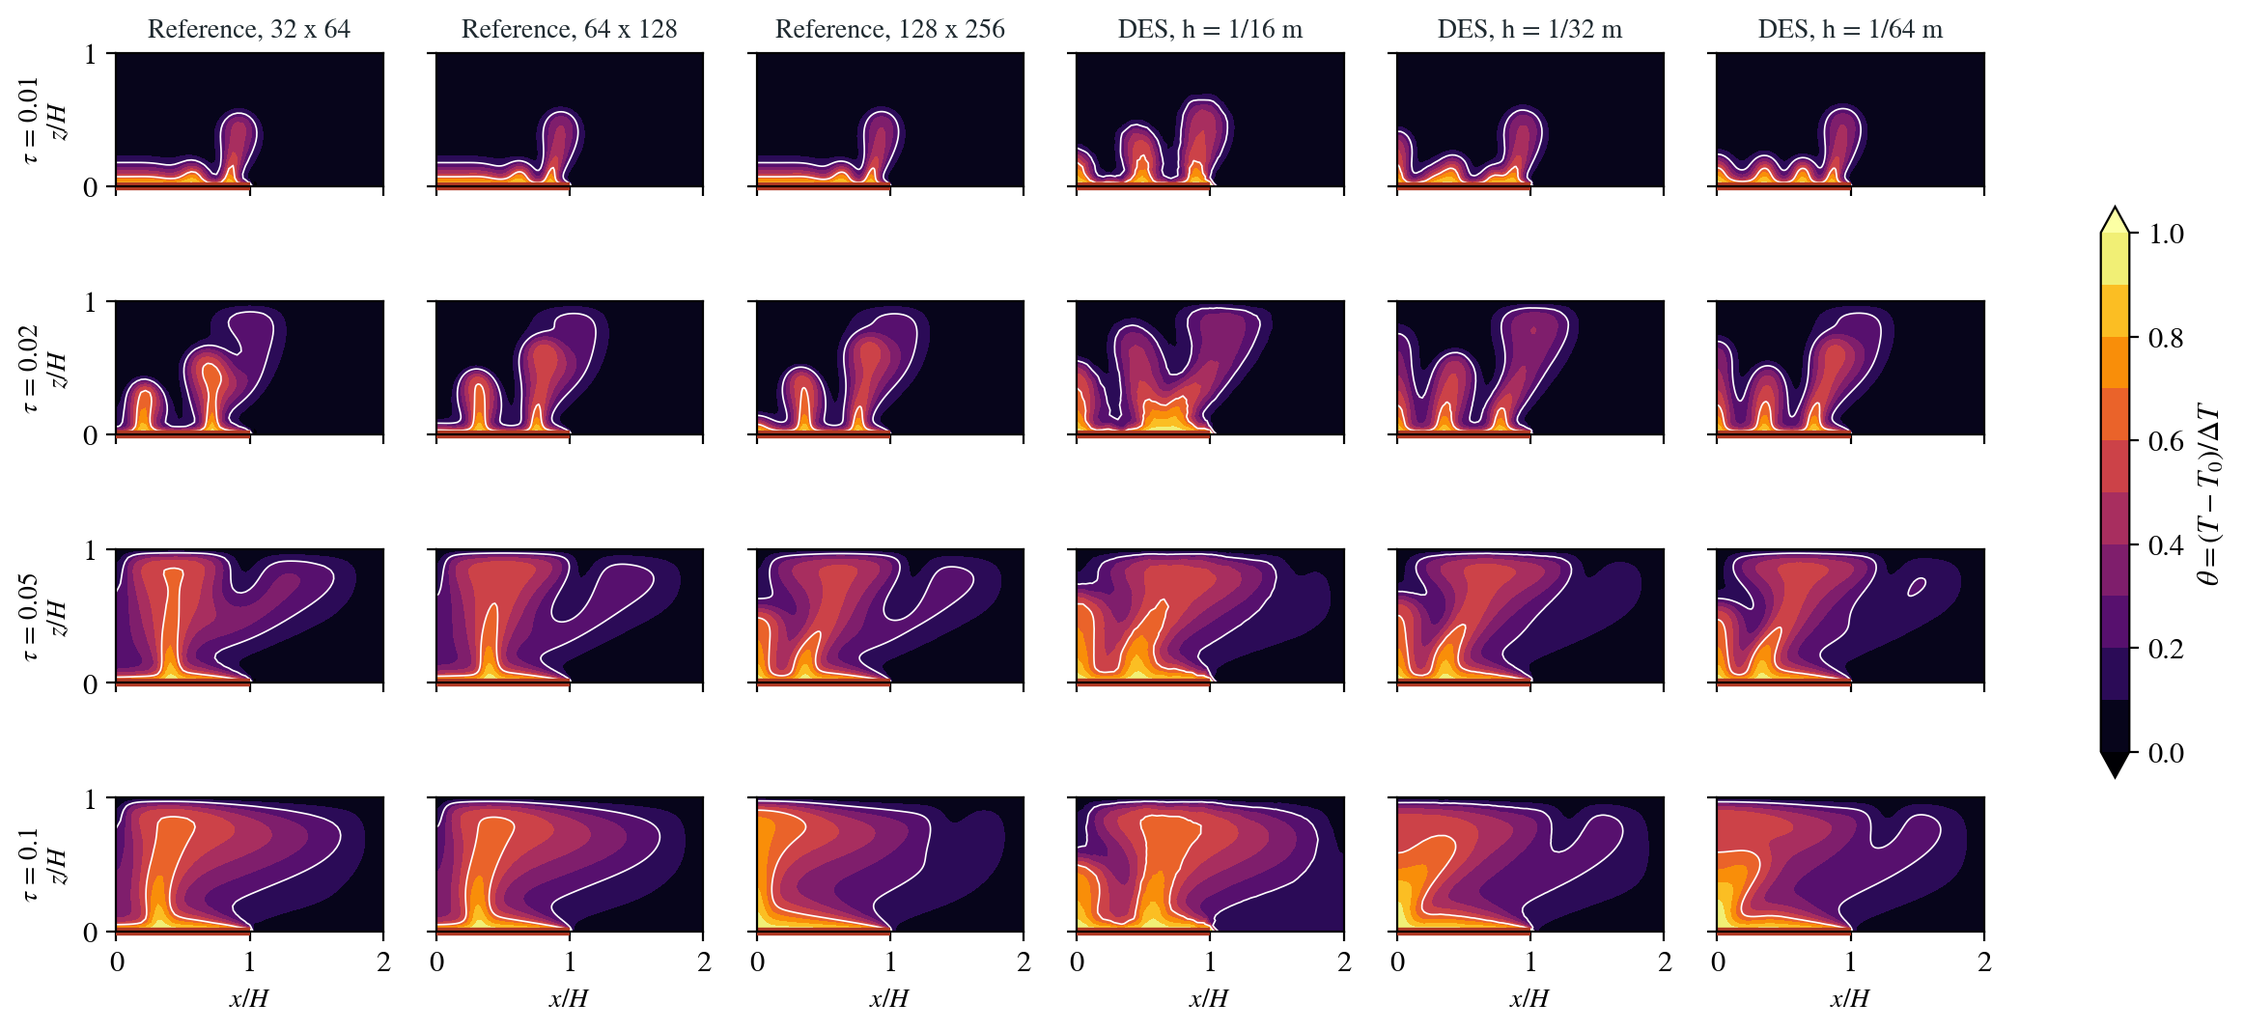
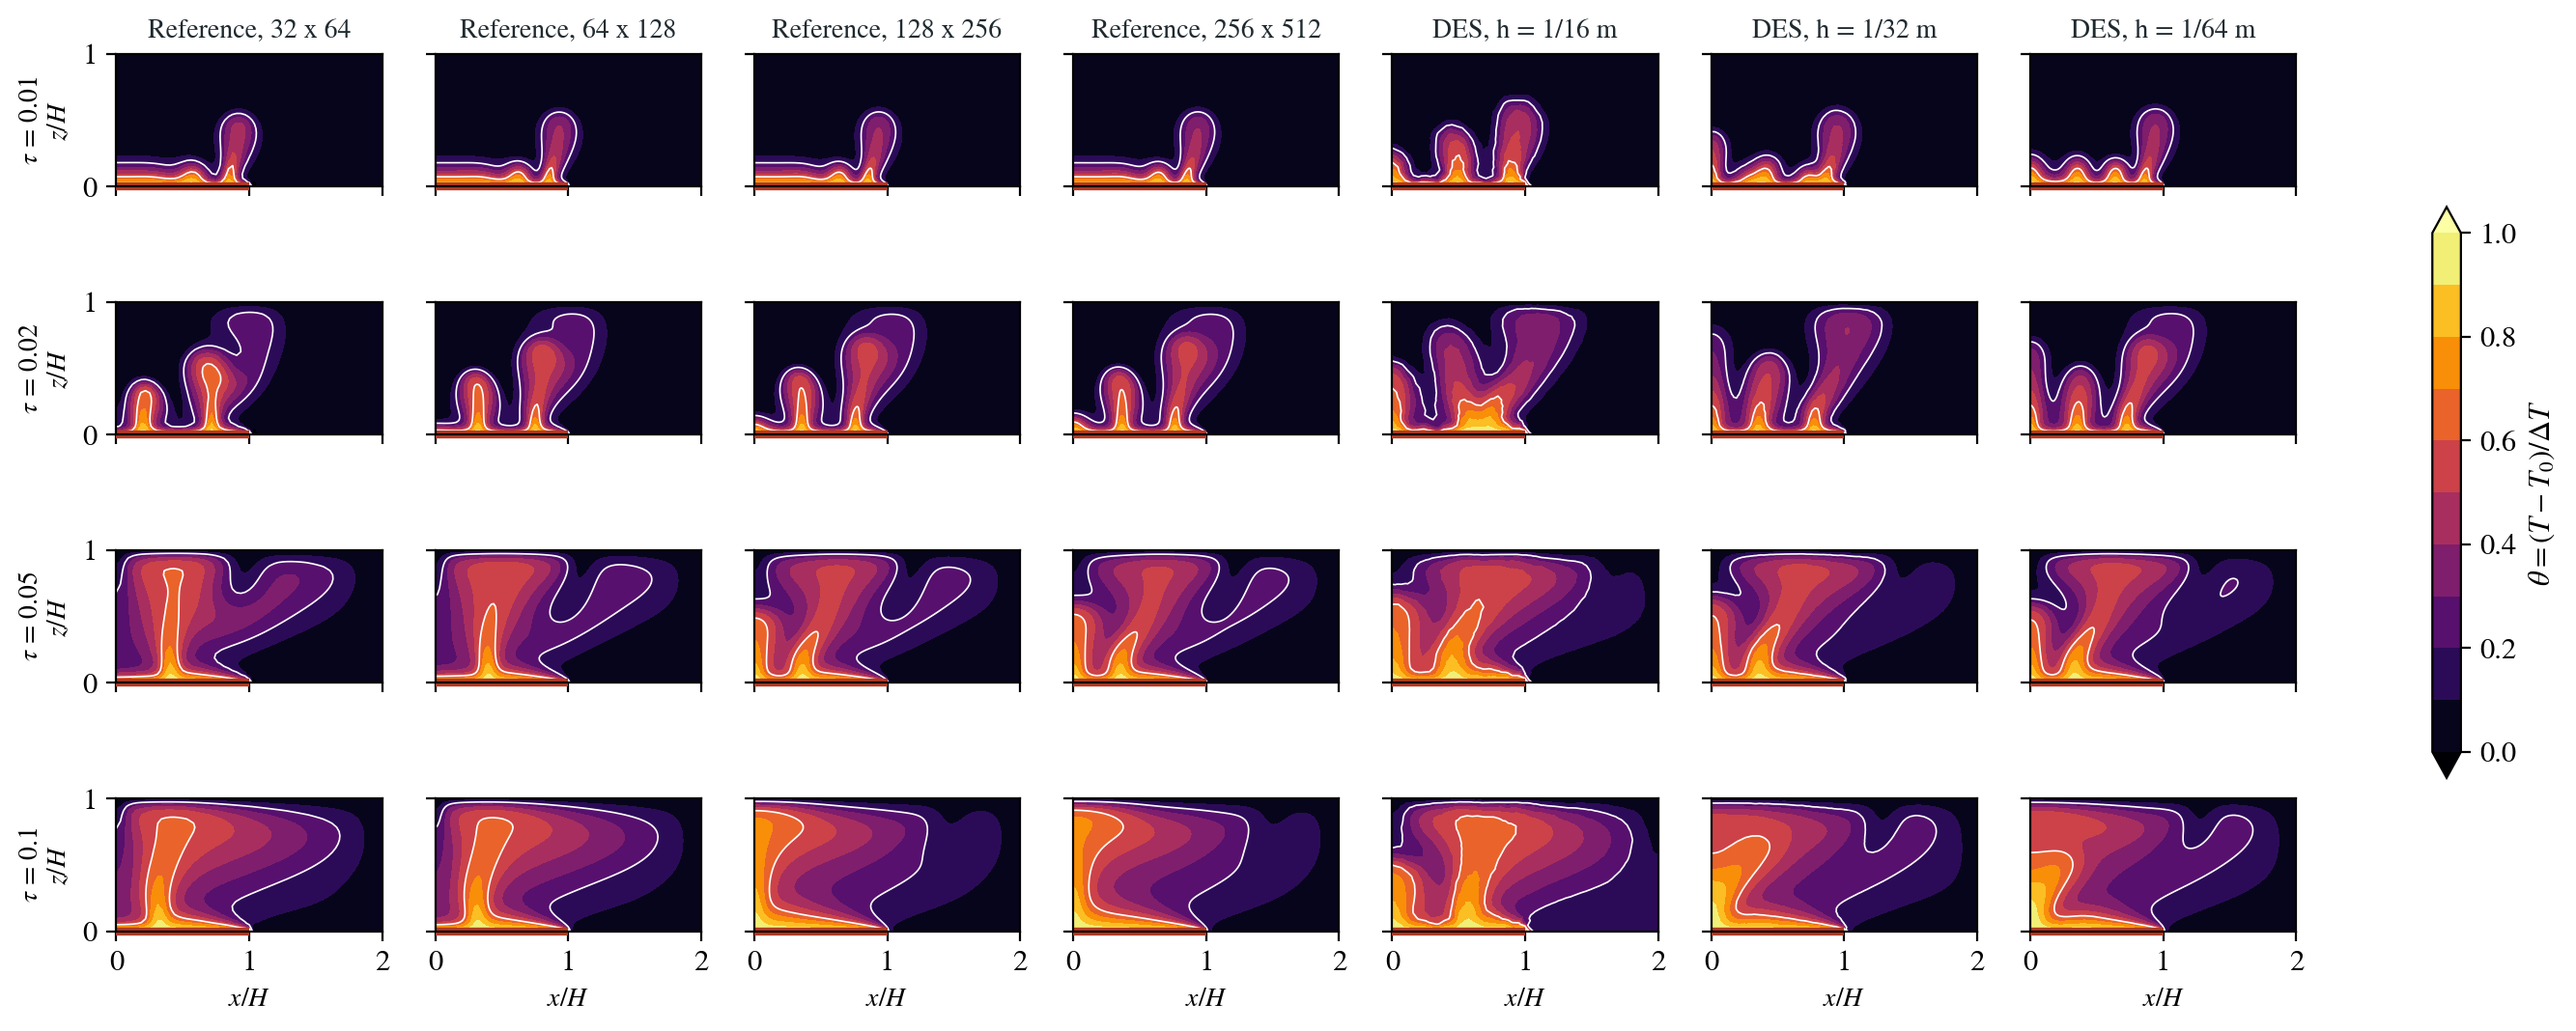
Compare Elder with the converged 256 x 512 reference
The two finest reference grids agree within 0.12 at every time, so the
finest DES mesh is now compared with a converged reference: same plume
pattern at tau 0.05 and 0.1, heat content within 1 %.

diff --git a/docs/benchmarks/poromechanics/heat-and-groundwater/elder.md b/docs/benchmarks/poromechanics/heat-and-groundwater/elder.md
@@ -14,9 +14,9 @@ the grid. This page therefore compares DES with an independent solution
 of the same equations on several grids and shows both as they come out;
 nothing is tuned to make them agree.
 
-**At $\tau$ = 0.1 the finest DES mesh and the finest reference grid reach
-the same pattern, one plume on the axis spreading under the top, and the
-heat content of the layer agrees within 1 %. Early, while the first plumes
+**The reference converges between its two finest grids. Against it, the
+finest DES mesh reaches the same plume pattern at $\tau$ = 0.05 and 0.1, with
+the heat content of the layer within 1 %. Early, while the first plumes
 form, DES grows more of them and its heat content is up to 14 % higher.**
 
 :::info At a glance
@@ -61,7 +61,8 @@ $\tau$ = 0.005, 0.01, 0.02, 0.05, 0.075 and 0.1.
 
 **Reference.** `elder_reference.py` solves the same equations, written for
 the stream function, with central differences on uniform grids of
-32 × 64, 64 × 128 and 128 × 256 cells and third-order Runge–Kutta steps.
+32 × 64, 64 × 128, 128 × 256 and 256 × 512 cells and third-order
+Runge–Kutta steps.
 It checks its own heat budget without buoyancy and that plumes form with
 it.
 
@@ -71,33 +72,39 @@ it.
 
 ![Heat content of the layer against time: reference grids (lines) and DES meshes (symbols)](../img/elder/heat.png)
 
-| $\tau$ | Heat content, DES $h$ = 1/16 | 1/32 | 1/64 | Reference 128 × 256 |
+| $\tau$ | Heat content, DES $h$ = 1/16 | 1/32 | 1/64 | Reference 256 × 512 |
 | --- | ---: | ---: | ---: | ---: |
 | 0.005 | 0.110 | 0.094 | 0.093 | 0.089 |
 | 0.02 | 0.386 | 0.314 | 0.299 | 0.262 |
-| 0.05 | 0.628 | 0.523 | 0.501 | 0.507 |
-| 0.1 | 0.758 | 0.617 | 0.597 | 0.591 |
+| 0.05 | 0.628 | 0.523 | 0.501 | 0.506 |
+| 0.1 | 0.758 | 0.617 | 0.597 | 0.590 |
 
 - **Convergence.** DES approaches the reference as the mesh is refined;
   the coarsest mesh carries too much heat at every time.
-- **Late times.** At $\tau$ = 0.1 the finest DES mesh and the finest
-  reference grid both show one plume on the axis that spreads under the
-  top. The coarser reference grids and the coarsest DES mesh show a plume
-  away from the axis: the pattern itself depends on resolution, in both
-  codes.
+- **Late times.** At $\tau$ = 0.05 and 0.1 the finest DES mesh and the two
+  finest reference grids show the same pattern: at $\tau$ = 0.05 a plume on
+  the axis, a second plume over the heater and the outer plume bent out
+  under the top, which by $\tau$ = 0.1 have become one broad plume on the
+  axis spreading under the top. The two
+  coarsest reference grids and the coarsest DES mesh show a plume away from
+  the axis instead: the pattern itself depends on resolution, in both
+  codes. The largest temperature difference from the finest grid is 0.14
+  at $\tau$ = 0.05 and 0.23 at $\tau$ = 0.1 (RMS 0.03 and 0.05).
 - **Early times.** At $\tau$ = 0.01–0.02 DES grows more and narrower
   plumes along the heater, and its heat content is 4–14 % higher. Where
   the first plumes start depends on small disturbances; an unstructured
   triangle mesh and a regular grid seed them differently.
-- **The reference itself.** Its finest two grids differ by up to 0.08 in
-  temperature through $\tau$ = 0.01, and by up to 0.6 after $\tau$ = 0.05,
-  where their plume patterns differ.
+- **The reference itself.** Its 64 × 128 and 128 × 256 grids differ by up
+  to 0.6 in temperature after $\tau$ = 0.05, where their plume patterns
+  differ; its 128 × 256 and 256 × 512 grids differ by at most 0.12 at every
+  time, and their heat contents agree within 0.5 %.
 
 ## Limits
 
-- **No unique answer.** Beyond the first plumes the solution is not
-  unique at this Rayleigh number; agreement of the pattern at
-  $\tau$ = 0.1 is not proof of convergence.
+- **Other branches.** The reference converges on one branch within
+  $\tau \le 0.1$, but at this Rayleigh number other flow patterns exist,
+  and coarser grids of both codes fall onto them; later times were not
+  compared.
 - **Half box.** The symmetric half excludes asymmetric patterns of the
   full box.
 - **Slightly compressible fluid.** The reference is incompressible; DES
